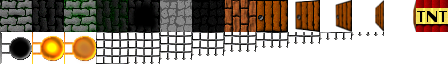
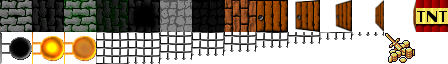
Add box in the floor on the map.

Changed region(s): [[0.8438, 0.5, 0.9375, 1.0]]

diff --git a/Game/Views/MapView.js b/Game/Views/MapView.js
@@ -36,8 +36,8 @@ export class MapView {
 
                 let a = map[i][j];
 
-                const sourceX = Math.floor(a % 16) * tileSize;
-                const sourceY = Math.floor((a / 16)) *  tileSize;
+                const sourceX = Math.floor(a % Config.MAX_NUMBER_TILESET) * tileSize;
+                const sourceY = Math.floor((a / Config.MAX_NUMBER_TILESET)) *  tileSize;
 
                 this.context.drawImage(spriteSheet, sourceX, sourceY, tileSize, tileSize, positionTile.x, positionTile.y, tileSize, tileSize);
                 this.context.strokeStyle = "rgba(0, 0, 0, 0.7)";
@@ -65,9 +65,9 @@ export class MapView {
                         y : i * tileSize
                     }
 
-                    const a = 168;
-                    const sourceX = Math.floor(a % 16) * tileSize;
-                    const sourceY = Math.floor((a / 16)) *  tileSize;
+                    const a = Config.BOX_TILE;
+                    const sourceX = Math.floor(a % Config.MAX_NUMBER_TILESET) * tileSize;
+                    const sourceY = Math.floor((a / Config.MAX_NUMBER_TILESET)) *  tileSize;
 
                     this.context.drawImage(spriteSheet, sourceX, sourceY, tileSize, tileSize, positionTile.x, positionTile.y, tileSize, tileSize);
                 }

diff --git a/Game/Models/MapModel.js b/Game/Models/MapModel.js
@@ -105,15 +105,15 @@ export class MapModel {
      * Add random weapon on the map
      **/
     addWeapon() {
-        // let positionX = Utils.randomNumber(0, this.maxTileX - 1);
-        // let positionY = Utils.randomNumber(0, this.maxTileY - 1);
+        let positionX = Utils.randomNumber(0, this.maxTileX - 1);
+        let positionY = Utils.randomNumber(0, this.maxTileY - 1);
 
-        // // Genere une nouvelle position si il y a collision dans la map
-        // while(this.collide(positionX, positionY) || this.mapEvents[positionY][positionX] === MapModel.WEAPON_DRAGONSPEAR) {
-        //     positionX = Utils.randomNumber(0, this.maxTileX);
-        //     positionY = Utils.randomNumber(0, this.maxTileY);
-        // }
+        // Genere une nouvelle position si il y a collision dans la map
+        while(this.collide(positionX, positionY) || this.mapEvents[positionY][positionX] === MapModel.WEAPON_DRAGONSPEAR) {
+            positionX = Utils.randomNumber(0, this.maxTileX - 1);
+            positionY = Utils.randomNumber(0, this.maxTileY - 1);
+        }
 
-        // this.mapEvents[positionY][positionX] = MapModel.WEAPON_DRAGONSPEAR;
+        this.mapEvents[positionY][positionX] = MapModel.WEAPON_DRAGONSPEAR;
     }
 }

diff --git a/Game/config/Config.js b/Game/config/Config.js
@@ -2,6 +2,7 @@ export let Config = {
     MAP_MAX_X: 20,
     MAP_MAX_Y: 15,
     TILE_SIZE: 32,
+    MAX_NUMBER_TILESET: 14,
 
     /**
      * Configuration du generateur
@@ -11,6 +12,7 @@ export let Config = {
     STAND_TILES: [14, 15, 30, 31],
     WATER_TILE: 163,
     STAND_NUMBER: 5,
+    BOX_TILE : 26,
 
     DRUNKEN_LIFE_MIN: 50,
     DRUNKEN_LIFE_MAX: 350

diff --git a/Game/Map/DrunkenWalk.js b/Game/Map/DrunkenWalk.js
@@ -24,7 +24,7 @@ export class DrunkenWalk {
             }
 
             for(let i = 0; i < drunken.life; i++){                
-                drunken.move(drunken.position);
+                drunken.move();
                 newMap[drunken.position.y][drunken.position.x] = Config.GROUND_TILE;
             }
             

diff --git a/Game/Map/Drunken.js b/Game/Map/Drunken.js
@@ -42,8 +42,7 @@ export class Drunken {
         this.position = position;
     }
 
-    move(destination) {
-
+    move() {
         // On teste si le move est valid
         // Change la direction aléatoirement
         const randomDir = Utils.randomNumber(0, 1);
